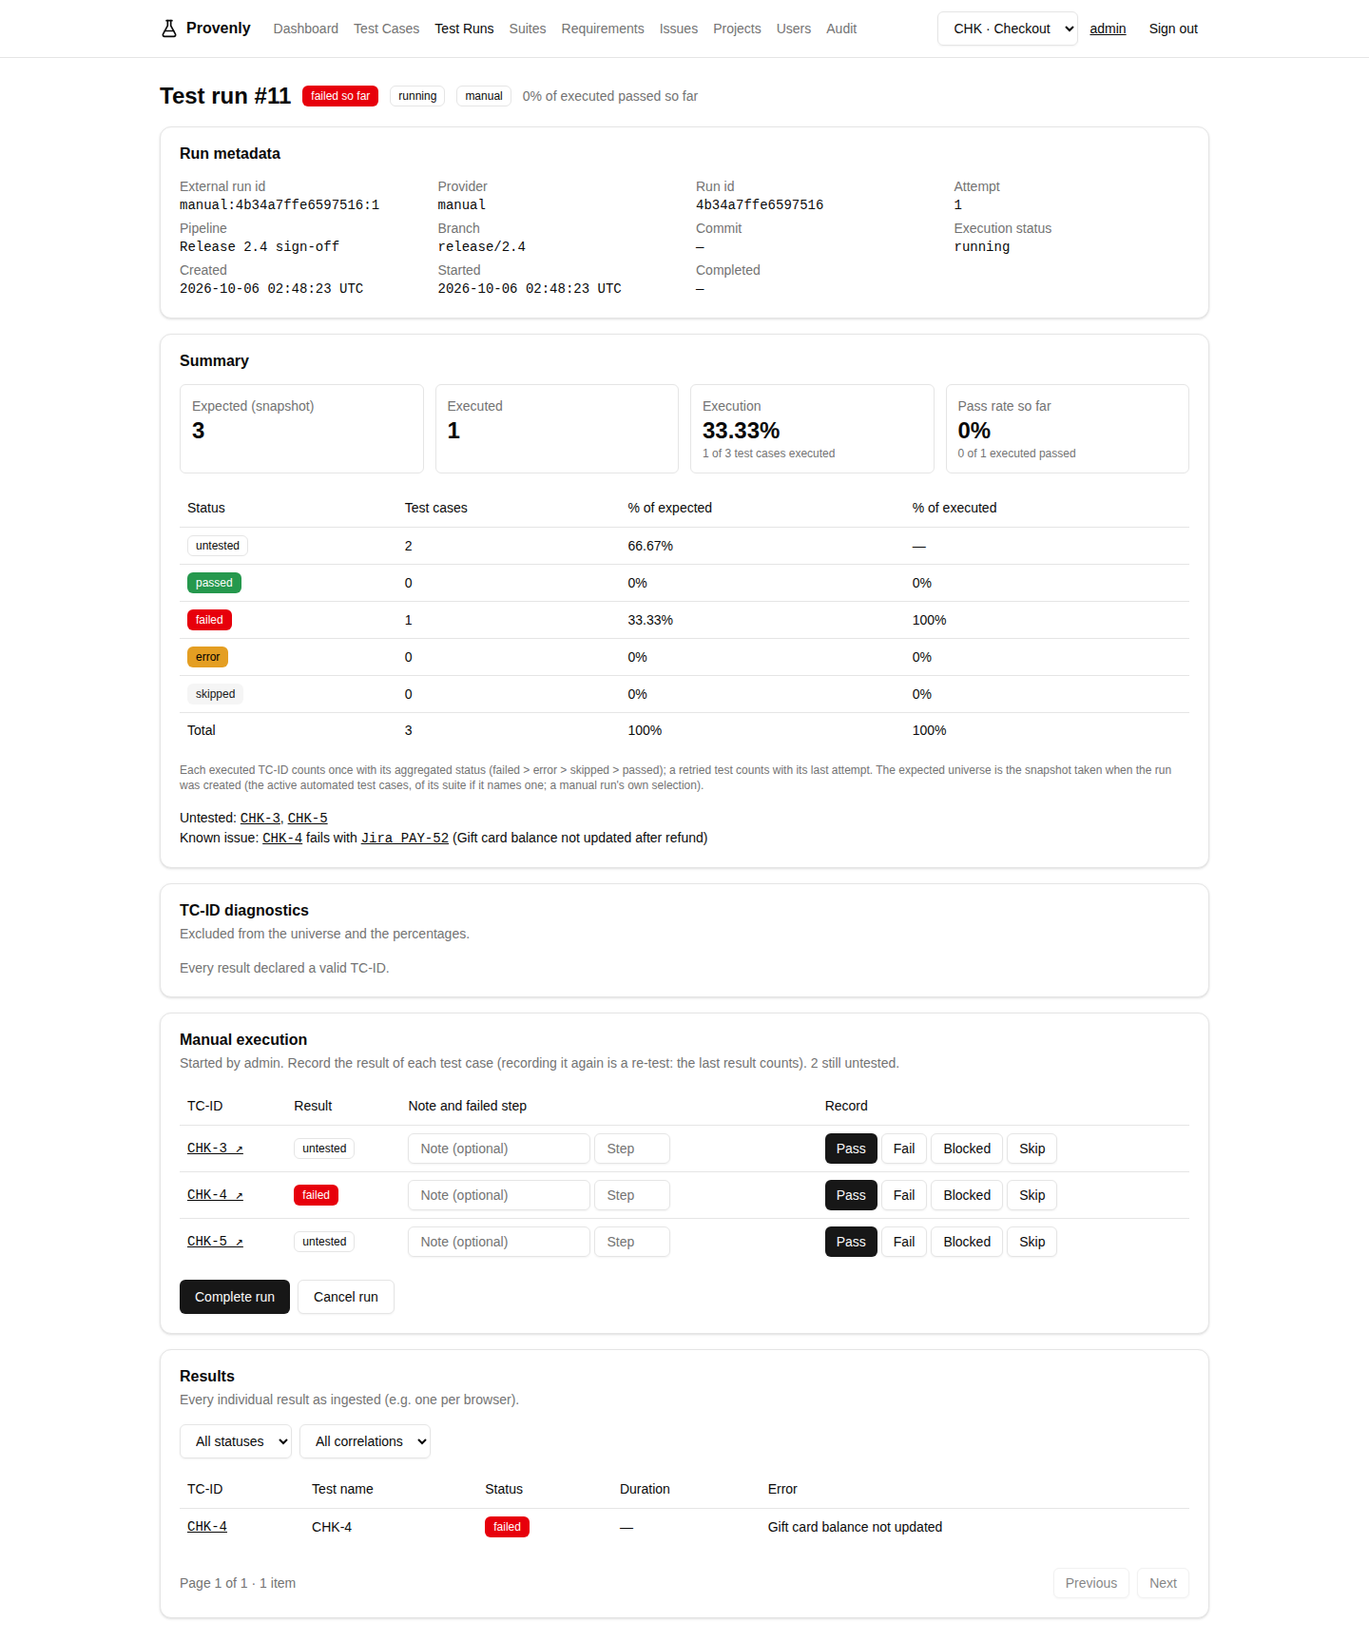
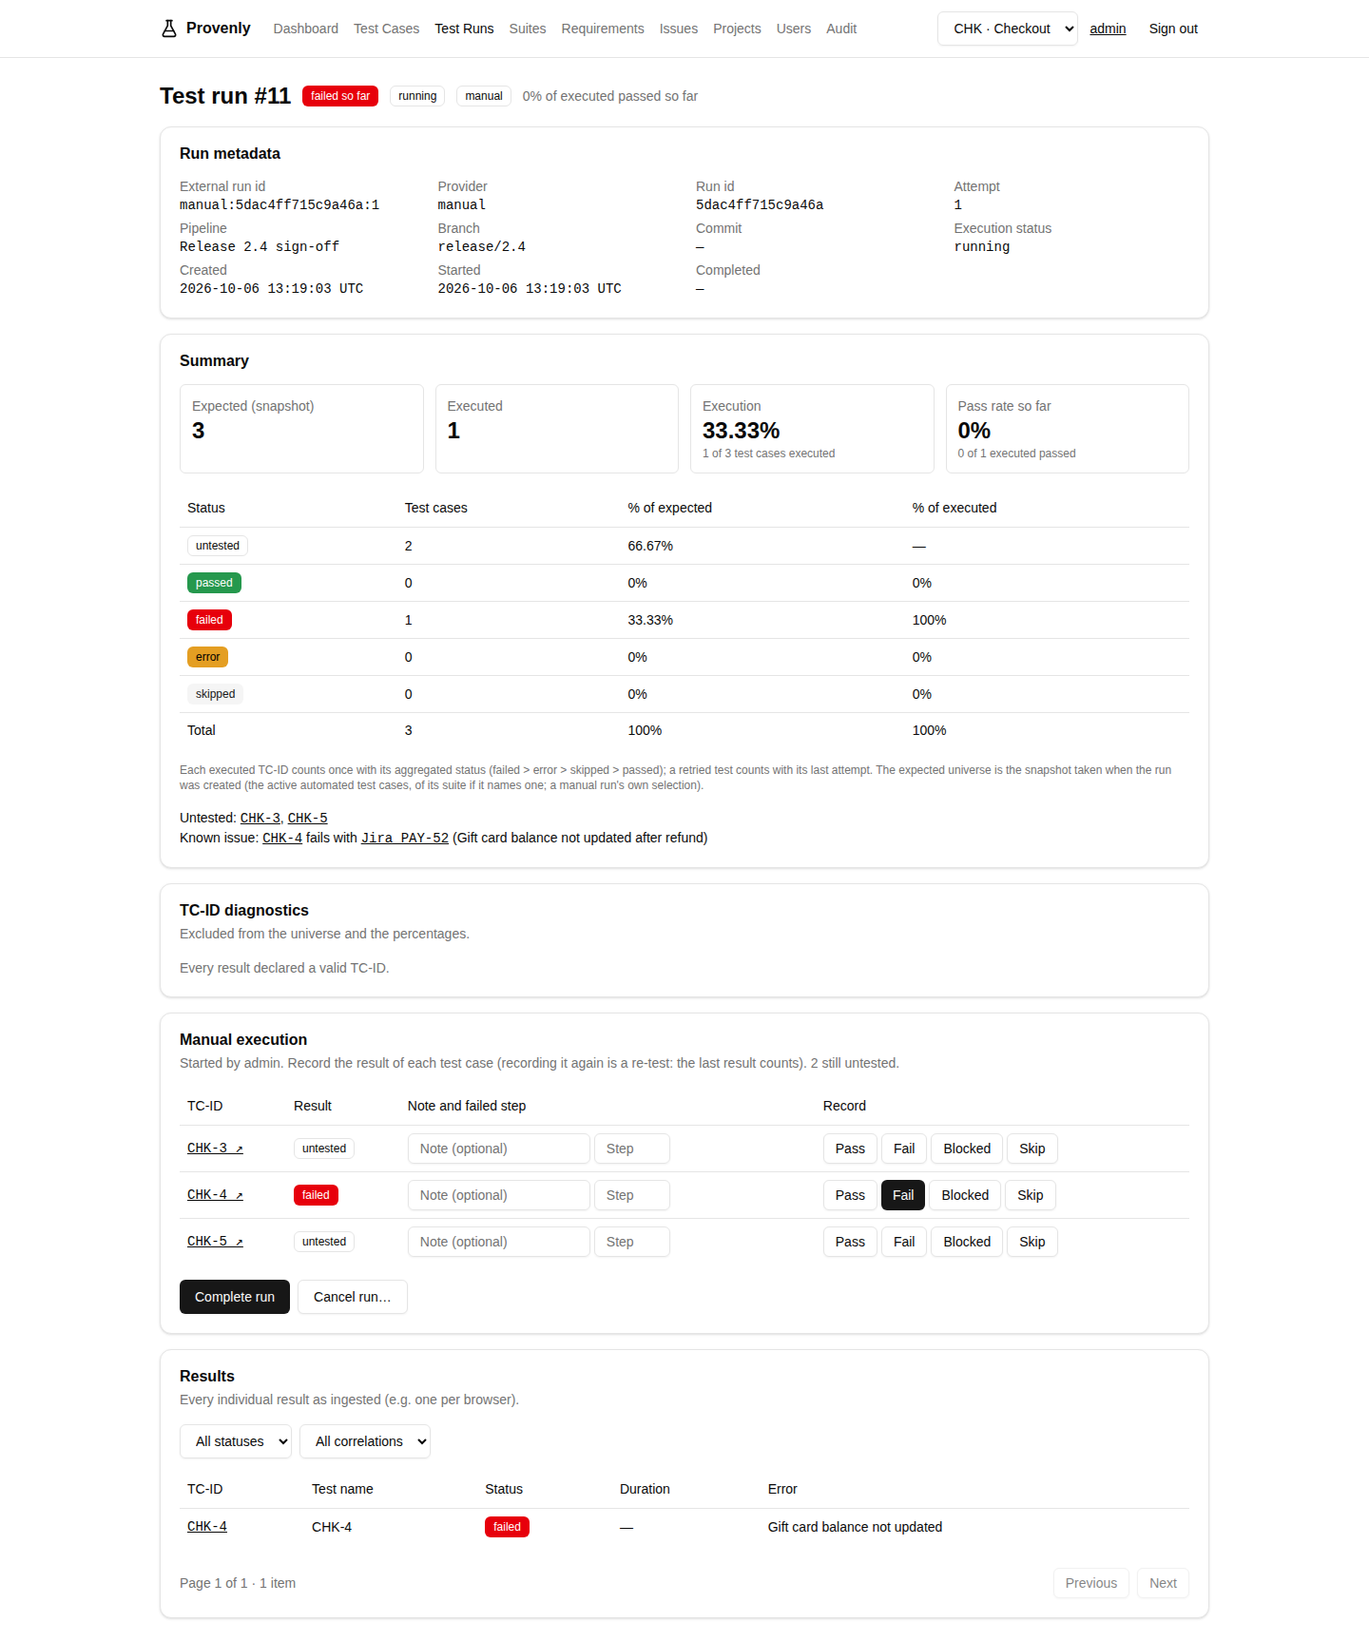
Inline confirmations and the recorded state of manual results (card #56)
- Completing a manual run with untested test cases, cancelling it, deleting a step and revoking an API key ask
  inline first, with the safe option focused (InlineConfirm, the deprecate pattern).
- In a manual run only the recorded result's button is highlighted (aria-pressed), and saving says what was
  saved ("Saved · failed at step 3").
- FE-INT-053; FE-INT-006, -033, -034, -039 and the E2E specs go through the confirmations; screenshots 44, 57, 63.

Claude-Session: https://claude.ai/code/session_01GioNDrizPJ4gyPR3jgQwuF

diff --git a/frontend/src/features/manual/ManualExecution.tsx b/frontend/src/features/manual/ManualExecution.tsx
@@ -3,12 +3,14 @@ import { Link } from 'react-router'
 
 import type { TestRun, TestRunSummary } from '@/api/client'
 import { useManualRun } from '@/api/queries'
+import { InlineConfirm } from '@/components/InlineConfirm'
 import { ErrorAlert } from '@/components/QueryState'
 import { StatusBadge } from '@/components/StatusBadge'
 import { Button } from '@/components/ui/button'
 import { Card, CardContent, CardDescription, CardHeader, CardTitle } from '@/components/ui/card'
 import { Input } from '@/components/ui/input'
 import { Table, TableBody, TableCell, TableHead, TableHeader, TableRow } from '@/components/ui/table'
+import { plural } from '@/lib/format'
 
 type Outcome = TestRunSummary['testCases'][number]
 
@@ -24,6 +26,7 @@ function CaseRow({ runId, outcome }: { runId: number; outcome: Outcome }) {
   const { record } = useManualRun(runId)
   const [note, setNote] = useState('')
   const [step, setStep] = useState('')
+  const [saved, setSaved] = useState<string | null>(null)
   const key = outcome.testCaseKey ?? String(outcome.testCaseId)
   // A failed step means the test failed or was blocked: never drop it silently on Pass or Skip.
   const stepOnly = step.trim() !== ''
@@ -64,7 +67,13 @@ function CaseRow({ runId, outcome }: { runId: number; outcome: Outcome }) {
               A failed step goes with Fail or Blocked; clear it to pass or skip.
             </p>
           ) : null}
-          {record.error ? <ErrorAlert error={record.error} title={`Could not record ${key}`} /> : null}
+          {record.error ? (
+            <ErrorAlert error={record.error} title={`Could not record ${key}`} />
+          ) : saved ? (
+            <p role="status" className="text-muted-foreground text-xs" data-testid={`saved-${key}`}>
+              {saved}
+            </p>
+          ) : null}
         </div>
       </TableCell>
       <TableCell>
@@ -73,7 +82,9 @@ function CaseRow({ runId, outcome }: { runId: number; outcome: Outcome }) {
             <Button
               key={a.status}
               size="sm"
-              variant={a.status === 'passed' ? 'default' : 'outline'}
+              // Only the recorded result is highlighted, so a row tells at a glance what was recorded.
+              variant={a.status === outcome.status ? 'default' : 'outline'}
+              aria-pressed={a.status === outcome.status}
               disabled={record.isPending || (stepOnly && (a.status === 'passed' || a.status === 'skipped'))}
               onClick={() =>
                 record.mutate(
@@ -87,6 +98,9 @@ function CaseRow({ runId, outcome }: { runId: number; outcome: Outcome }) {
                   },
                   {
                     onSuccess: () => {
+                      const failedStep =
+                        (a.status === 'failed' || a.status === 'error') && step ? ` at step ${step}` : ''
+                      setSaved(`Saved · ${a.label === 'Blocked' ? 'blocked' : a.status}${failedStep}`)
                       setNote('')
                       setStep('')
                     },
@@ -142,12 +156,35 @@ export function ManualExecution({ run, summary }: { run: TestRun; summary: TestR
         </Table>
         {finish.error ? <ErrorAlert error={finish.error} title="Could not finish the run" /> : null}
         <div className="flex flex-wrap gap-2">
-          <Button disabled={finish.isPending} onClick={() => finish.mutate('completed')}>
-            Complete run
-          </Button>
-          <Button variant="outline" disabled={finish.isPending} onClick={() => finish.mutate('cancelled')}>
-            Cancel run
-          </Button>
+          {/* Finishing cannot be undone: completing with untested test cases and cancelling ask first. */}
+          <InlineConfirm
+            label="Confirm completing the run"
+            question={`${plural(left, 'test case')} ${left === 1 ? 'is' : 'are'} still untested. Complete anyway?`}
+            confirmLabel="Complete anyway"
+            pending={finish.isPending}
+            onConfirm={(close) => finish.mutate('completed', { onSettled: close })}
+            trigger={(open) => (
+              <Button
+                disabled={finish.isPending}
+                onClick={() => (left > 0 ? open() : finish.mutate('completed'))}
+              >
+                Complete run
+              </Button>
+            )}
+          />
+          <InlineConfirm
+            label="Confirm cancelling the run"
+            question={`Cancel this run? Recorded results are kept${left > 0 ? `; ${left} untested stay untested` : ''}.`}
+            confirmLabel="Cancel run"
+            dismissLabel="Keep the run"
+            pending={finish.isPending}
+            onConfirm={(close) => finish.mutate('cancelled', { onSettled: close })}
+            trigger={(open) => (
+              <Button variant="outline" disabled={finish.isPending} onClick={open}>
+                Cancel run…
+              </Button>
+            )}
+          />
         </div>
       </CardContent>
     </Card>

diff --git a/frontend/src/features/manual/confirmations.int.test.tsx b/frontend/src/features/manual/confirmations.int.test.tsx
@@ -1,0 +1,58 @@
+import { screen, waitFor, within } from '@testing-library/react'
+import { describe, expect, it } from 'vitest'
+
+import { db } from '@/test/mockApi'
+import { renderRoute } from '@/test/render'
+
+const manualRun = () => {
+  db.runs.push({ ...db.runs[0], id: 900, mode: 'manual', executionStatus: 'running', startedBy: 'admin' })
+  db.summaries[900] = { ...db.summaries[7], testRunId: 900 }
+}
+
+describe('FE-INT-053 manual run confirmations and recorded state (card #56)', () => {
+  it('FE-INT-053 completing with untested test cases and cancelling ask first, with the safe option focused', async () => {
+    manualRun()
+    const { user: u } = renderRoute('/test-runs/900')
+    const panel = await screen.findByTestId('manual-execution')
+
+    await u.click(within(panel).getByRole('button', { name: 'Complete run' }))
+    const complete = within(panel).getByRole('group', { name: 'Confirm completing the run' })
+    expect(complete).toHaveTextContent('1 test case is still untested. Complete anyway?')
+    expect(within(complete).getByRole('button', { name: 'Cancel' })).toHaveFocus()
+    await u.click(within(complete).getByRole('button', { name: 'Cancel' }))
+    expect(db.runs.at(-1)!.executionStatus).toBe('running')
+
+    await u.click(within(panel).getByRole('button', { name: 'Cancel run…' }))
+    const cancel = within(panel).getByRole('group', { name: 'Confirm cancelling the run' })
+    expect(cancel).toHaveTextContent('Cancel this run? Recorded results are kept; 1 untested stay untested.')
+    expect(within(cancel).getByRole('button', { name: 'Keep the run' })).toHaveFocus()
+    await u.click(within(cancel).getByRole('button', { name: 'Keep the run' }))
+    expect(db.runs.at(-1)!.executionStatus).toBe('running')
+
+    await u.click(within(panel).getByRole('button', { name: 'Complete run' }))
+    await u.click(within(panel).getByRole('button', { name: 'Complete anyway' }))
+    await waitFor(() => expect(screen.queryByTestId('manual-execution')).not.toBeInTheDocument())
+    expect(db.runs.at(-1)!.executionStatus).toBe('completed')
+  })
+
+  it('FE-INT-053 only the recorded result is highlighted, and saving says what was saved', async () => {
+    manualRun()
+    const { user: u } = renderRoute('/test-runs/900')
+    const row = within(await screen.findByTestId('manual-execution')).getByTestId('manual-TC-154')
+    const pressed = () =>
+      within(row)
+        .getAllByRole('button', { pressed: true })
+        .map((b) => b.textContent)
+    // Untested: no button looks selected.
+    expect(within(row).queryAllByRole('button', { pressed: true })).toHaveLength(0)
+
+    await u.type(within(row).getByLabelText('Failed step of TC-154'), '3')
+    await u.click(within(row).getByRole('button', { name: 'Fail' }))
+    await waitFor(() => expect(pressed()).toEqual(['Fail']))
+    expect(within(row).getByRole('status')).toHaveTextContent('Saved · failed at step 3')
+
+    await u.click(within(row).getByRole('button', { name: 'Blocked' }))
+    await waitFor(() => expect(pressed()).toEqual(['Blocked']))
+    expect(within(row).getByRole('status')).toHaveTextContent(/^Saved · blocked$/)
+  })
+})

diff --git a/frontend/src/features/test-cases/StepsEditor.tsx b/frontend/src/features/test-cases/StepsEditor.tsx
@@ -3,6 +3,7 @@ import { useState, type FormEvent } from 'react'
 
 import type { TestStep } from '@/api/client'
 import { useStepMutations, useTestSteps } from '@/api/queries'
+import { InlineConfirm } from '@/components/InlineConfirm'
 import { ErrorAlert, QueryState } from '@/components/QueryState'
 import { Button } from '@/components/ui/button'
 import { Input } from '@/components/ui/input'
@@ -142,17 +143,26 @@ export function StepsEditor({ testCaseId, readOnly = false }: { testCaseId: numb
                           >
                             <Pencil />
                           </Button>
-                          <Button
-                            size="icon"
-                            variant="ghost"
-                            aria-label={`Delete step ${step.position}`}
-                            onClick={() => {
+                          <InlineConfirm
+                            label={`Confirm deleting step ${step.position}`}
+                            question={`Delete step ${step.position}?`}
+                            confirmLabel="Delete"
+                            pending={m.remove.isPending}
+                            onConfirm={(close) => {
                               track('remove')
-                              m.remove.mutate(step.id)
+                              m.remove.mutate(step.id, { onSettled: close })
                             }}
-                          >
-                            <Trash2 />
-                          </Button>
+                            trigger={(open) => (
+                              <Button
+                                size="icon"
+                                variant="ghost"
+                                aria-label={`Delete step ${step.position}`}
+                                onClick={open}
+                              >
+                                <Trash2 />
+                              </Button>
+                            )}
+                          />
                         </div>
                       )}
                     </div>

diff --git a/frontend/src/features/projects/apikeys.int.test.tsx b/frontend/src/features/projects/apikeys.int.test.tsx
@@ -40,9 +40,17 @@ describe('FE-INT-033 project API keys', () => {
     const row = await screen.findByTestId(`api-key-${created.id}`)
     expect(row).toHaveTextContent('Never')
 
+    // Revoking asks first: CI using the key will be refused.
+    await u.click(within(row).getByRole('button', { name: 'Revoke…' }))
+    const confirm = within(row).getByRole('group', { name: 'Confirm revoking GitHub Actions' })
+    expect(confirm).toHaveTextContent('Revoke key GitHub Actions? CI using it will get 401.')
+    expect(within(confirm).getByRole('button', { name: 'Cancel' })).toHaveFocus()
+    await u.click(within(confirm).getByRole('button', { name: 'Cancel' }))
+    expect(created.status).toBe('active')
+    await u.click(within(row).getByRole('button', { name: 'Revoke…' }))
     await u.click(within(row).getByRole('button', { name: 'Revoke' }))
     await waitFor(() => expect(within(row).getByText('revoked')).toBeInTheDocument())
-    expect(within(row).queryByRole('button', { name: 'Revoke' })).not.toBeInTheDocument()
+    expect(within(row).queryByRole('button', { name: /^Revoke/ })).not.toBeInTheDocument()
   })
 
   it('FE-INT-033 errors are reported where they happen; viewers and members do not see keys', async () => {
@@ -50,6 +58,7 @@ describe('FE-INT-033 project API keys', () => {
     const { user: u, unmount } = renderRoute('/projects/TC')
     const row = await screen.findByTestId('api-key-5')
     db.apiKeys[1] = { ...db.apiKeys[1], status: 'revoked', revokedAt: at }
+    await u.click(within(row).getByRole('button', { name: 'Revoke…' }))
     await u.click(within(row).getByRole('button', { name: 'Revoke' }))
     expect(await within(row).findByText('Could not revoke the key')).toBeInTheDocument()
 

diff --git a/frontend/src/features/projects/ApiKeysSection.tsx b/frontend/src/features/projects/ApiKeysSection.tsx
@@ -2,6 +2,7 @@ import { useState, type FormEvent } from 'react'
 
 import type { ApiKey } from '@/api/client'
 import { useApiKeyMutations, useApiKeys } from '@/api/queries'
+import { InlineConfirm } from '@/components/InlineConfirm'
 import { Pagination } from '@/components/Pagination'
 import { ErrorAlert, QueryState } from '@/components/QueryState'
 import { Badge } from '@/components/ui/badge'
@@ -29,14 +30,18 @@ function KeyRow({ apiKey, projectKey }: { apiKey: ApiKey; projectKey: string }) 
       </TableCell>
       <TableCell>
         {active ? (
-          <Button
-            size="sm"
-            variant="outline"
-            disabled={m.revoke.isPending}
-            onClick={() => m.revoke.mutate(apiKey.id)}
-          >
-            Revoke
-          </Button>
+          <InlineConfirm
+            label={`Confirm revoking ${apiKey.name}`}
+            question={`Revoke key ${apiKey.name}? CI using it will get 401.`}
+            confirmLabel="Revoke"
+            pending={m.revoke.isPending}
+            onConfirm={(close) => m.revoke.mutate(apiKey.id, { onSettled: close })}
+            trigger={(open) => (
+              <Button size="sm" variant="outline" disabled={m.revoke.isPending} onClick={open}>
+                Revoke…
+              </Button>
+            )}
+          />
         ) : null}
         {m.revoke.error ? <ErrorAlert error={m.revoke.error} title="Could not revoke the key" /> : null}
       </TableCell>

diff --git a/frontend/src/components/InlineConfirm.tsx b/frontend/src/components/InlineConfirm.tsx
@@ -1,0 +1,40 @@
+import { useState, type ReactNode } from 'react'
+
+import { Button } from '@/components/ui/button'
+
+/**
+ * Asks in place before an action that cannot be undone: the question, the action and a way back, with the safe
+ * option focused (the deprecate pattern). `trigger` renders what opens it; `onConfirm` gets a callback that closes it.
+ */
+export function InlineConfirm({
+  label,
+  question,
+  confirmLabel,
+  dismissLabel = 'Cancel',
+  pending = false,
+  onConfirm,
+  trigger,
+}: {
+  label: string
+  question: ReactNode
+  confirmLabel: string
+  dismissLabel?: string
+  pending?: boolean
+  onConfirm: (close: () => void) => void
+  trigger: (open: () => void) => ReactNode
+}) {
+  const [open, setOpen] = useState(false)
+  const close = () => setOpen(false)
+  if (!open) return <>{trigger(() => setOpen(true))}</>
+  return (
+    <span role="group" aria-label={label} className="flex flex-wrap items-center gap-2">
+      <span className="text-sm">{question}</span>
+      <Button size="sm" variant="destructive" disabled={pending} onClick={() => onConfirm(close)}>
+        {confirmLabel}
+      </Button>
+      <Button size="sm" variant="outline" autoFocus onClick={close}>
+        {dismissLabel}
+      </Button>
+    </span>
+  )
+}

diff --git a/frontend/src/features/test-cases/steps.int.test.tsx b/frontend/src/features/test-cases/steps.int.test.tsx
@@ -42,7 +42,19 @@ describe('FE-INT-006 steps management', () => {
     await user.click(within(form).getByRole('button', { name: 'Save step' }))
     await waitFor(() => expect(stepTexts()).toContain('2. Submit valid credentials'))
 
+    // Deleting asks first, with Cancel focused; cancelling keeps the step.
     await user.click(screen.getByRole('button', { name: 'Delete step 1' }))
+    const confirm = screen.getByRole('group', { name: 'Confirm deleting step 1' })
+    expect(confirm).toHaveTextContent('Delete step 1?')
+    expect(within(confirm).getByRole('button', { name: 'Cancel' })).toHaveFocus()
+    await user.click(within(confirm).getByRole('button', { name: 'Cancel' }))
+    expect(stepTexts()).toHaveLength(2)
+    await user.click(screen.getByRole('button', { name: 'Delete step 1' }))
+    await user.click(
+      within(screen.getByRole('group', { name: 'Confirm deleting step 1' })).getByRole('button', {
+        name: 'Delete',
+      }),
+    )
     await waitFor(() => expect(stepTexts()).toEqual(['1. Submit valid credentials']))
   })
 

diff --git a/frontend/src/features/manual/manual.int.test.tsx b/frontend/src/features/manual/manual.int.test.tsx
@@ -98,9 +98,11 @@ describe('FE-INT-039 manual execution', () => {
     )
     await u.click(within(row).getByRole('button', { name: 'Pass' }))
     expect(await within(row).findByText('Could not record TC-154')).toBeInTheDocument()
+    await u.click(within(panel).getByRole('button', { name: 'Cancel run…' }))
     await u.click(within(panel).getByRole('button', { name: 'Cancel run' }))
     expect(await within(panel).findByText('Could not finish the run')).toBeInTheDocument()
     server.resetHandlers()
+    await u.click(within(panel).getByRole('button', { name: 'Cancel run…' }))
     await u.click(within(panel).getByRole('button', { name: 'Cancel run' }))
     await waitFor(() => expect(screen.queryByTestId('manual-execution')).not.toBeInTheDocument())
     expect(screen.getByTestId('execution-badge')).toHaveTextContent('cancelled')

diff --git a/e2e/tests/manual.spec.ts b/e2e/tests/manual.spec.ts
@@ -39,6 +39,8 @@ test.describe('Manual execution (MVP D3)', () => {
     await row.getByLabel(`Failed step of ${tc.key}`).fill('3')
     await row.getByRole('button', { name: 'Fail' }).click()
     await expect(row.getByTestId('status-badge')).toHaveText('failed')
+    await expect(row.getByRole('status')).toHaveText('Saved · failed at step 3')
+    await expect(row.getByRole('button', { name: 'Fail' })).toHaveAttribute('aria-pressed', 'true')
     await row.getByRole('button', { name: 'Pass' }).click()
     await expect(row.getByTestId('status-badge')).toHaveText('passed')
     await page.getByRole('button', { name: 'Complete run' }).click()

diff --git a/e2e/tests/apikeys.spec.ts b/e2e/tests/apikeys.spec.ts
@@ -69,7 +69,9 @@ test.describe('CI API keys', () => {
     await page.reload()
     const row = page.getByRole('row', { name: /Nightly pipeline/ })
     await expect(row).not.toContainText('Never')
-    await row.getByRole('button', { name: 'Revoke' }).click()
+    await row.getByRole('button', { name: 'Revoke…' }).click()
+    await expect(row.getByRole('group', { name: 'Confirm revoking Nightly pipeline' })).toContainText('CI using it will get 401.')
+    await row.getByRole('button', { name: 'Revoke', exact: true }).click()
     await expect(row).toContainText('revoked')
 
     await page.goto(`/test-cases/${tc.id}`)

diff --git a/e2e/tests/ui.spec.ts b/e2e/tests/ui.spec.ts
@@ -30,6 +30,7 @@ test.describe('Frontend UI journeys', () => {
     await page.getByRole('button', { name: 'Move step 2 up' }).click()
     await expect(page.getByRole('list', { name: 'Steps' }).getByRole('listitem').first()).toContainText('1. Pay')
     await page.getByRole('button', { name: 'Delete step 2' }).click()
+    await page.getByRole('group', { name: 'Confirm deleting step 2' }).getByRole('button', { name: 'Delete' }).click()
     await expect(page.getByText('Add item to cart')).toHaveCount(0)
 
     await page.getByRole('button', { name: 'Deprecate' }).click()

diff --git a/frontend/src/features/test-cases/conflicts.int.test.tsx b/frontend/src/features/test-cases/conflicts.int.test.tsx
@@ -43,6 +43,11 @@ describe('FE-INT-034 concurrent edits (optimistic locking)', () => {
 
     savedElsewhere()
     await user.click(screen.getByRole('button', { name: 'Delete step 1' }))
+    await user.click(
+      within(screen.getByRole('group', { name: 'Confirm deleting step 1' })).getByRole('button', {
+        name: 'Delete',
+      }),
+    )
     expect(await screen.findByTestId('conflict')).toBeInTheDocument()
     expect(db.steps.filter((s) => s.testCaseId === 153)).toHaveLength(4)
   })
